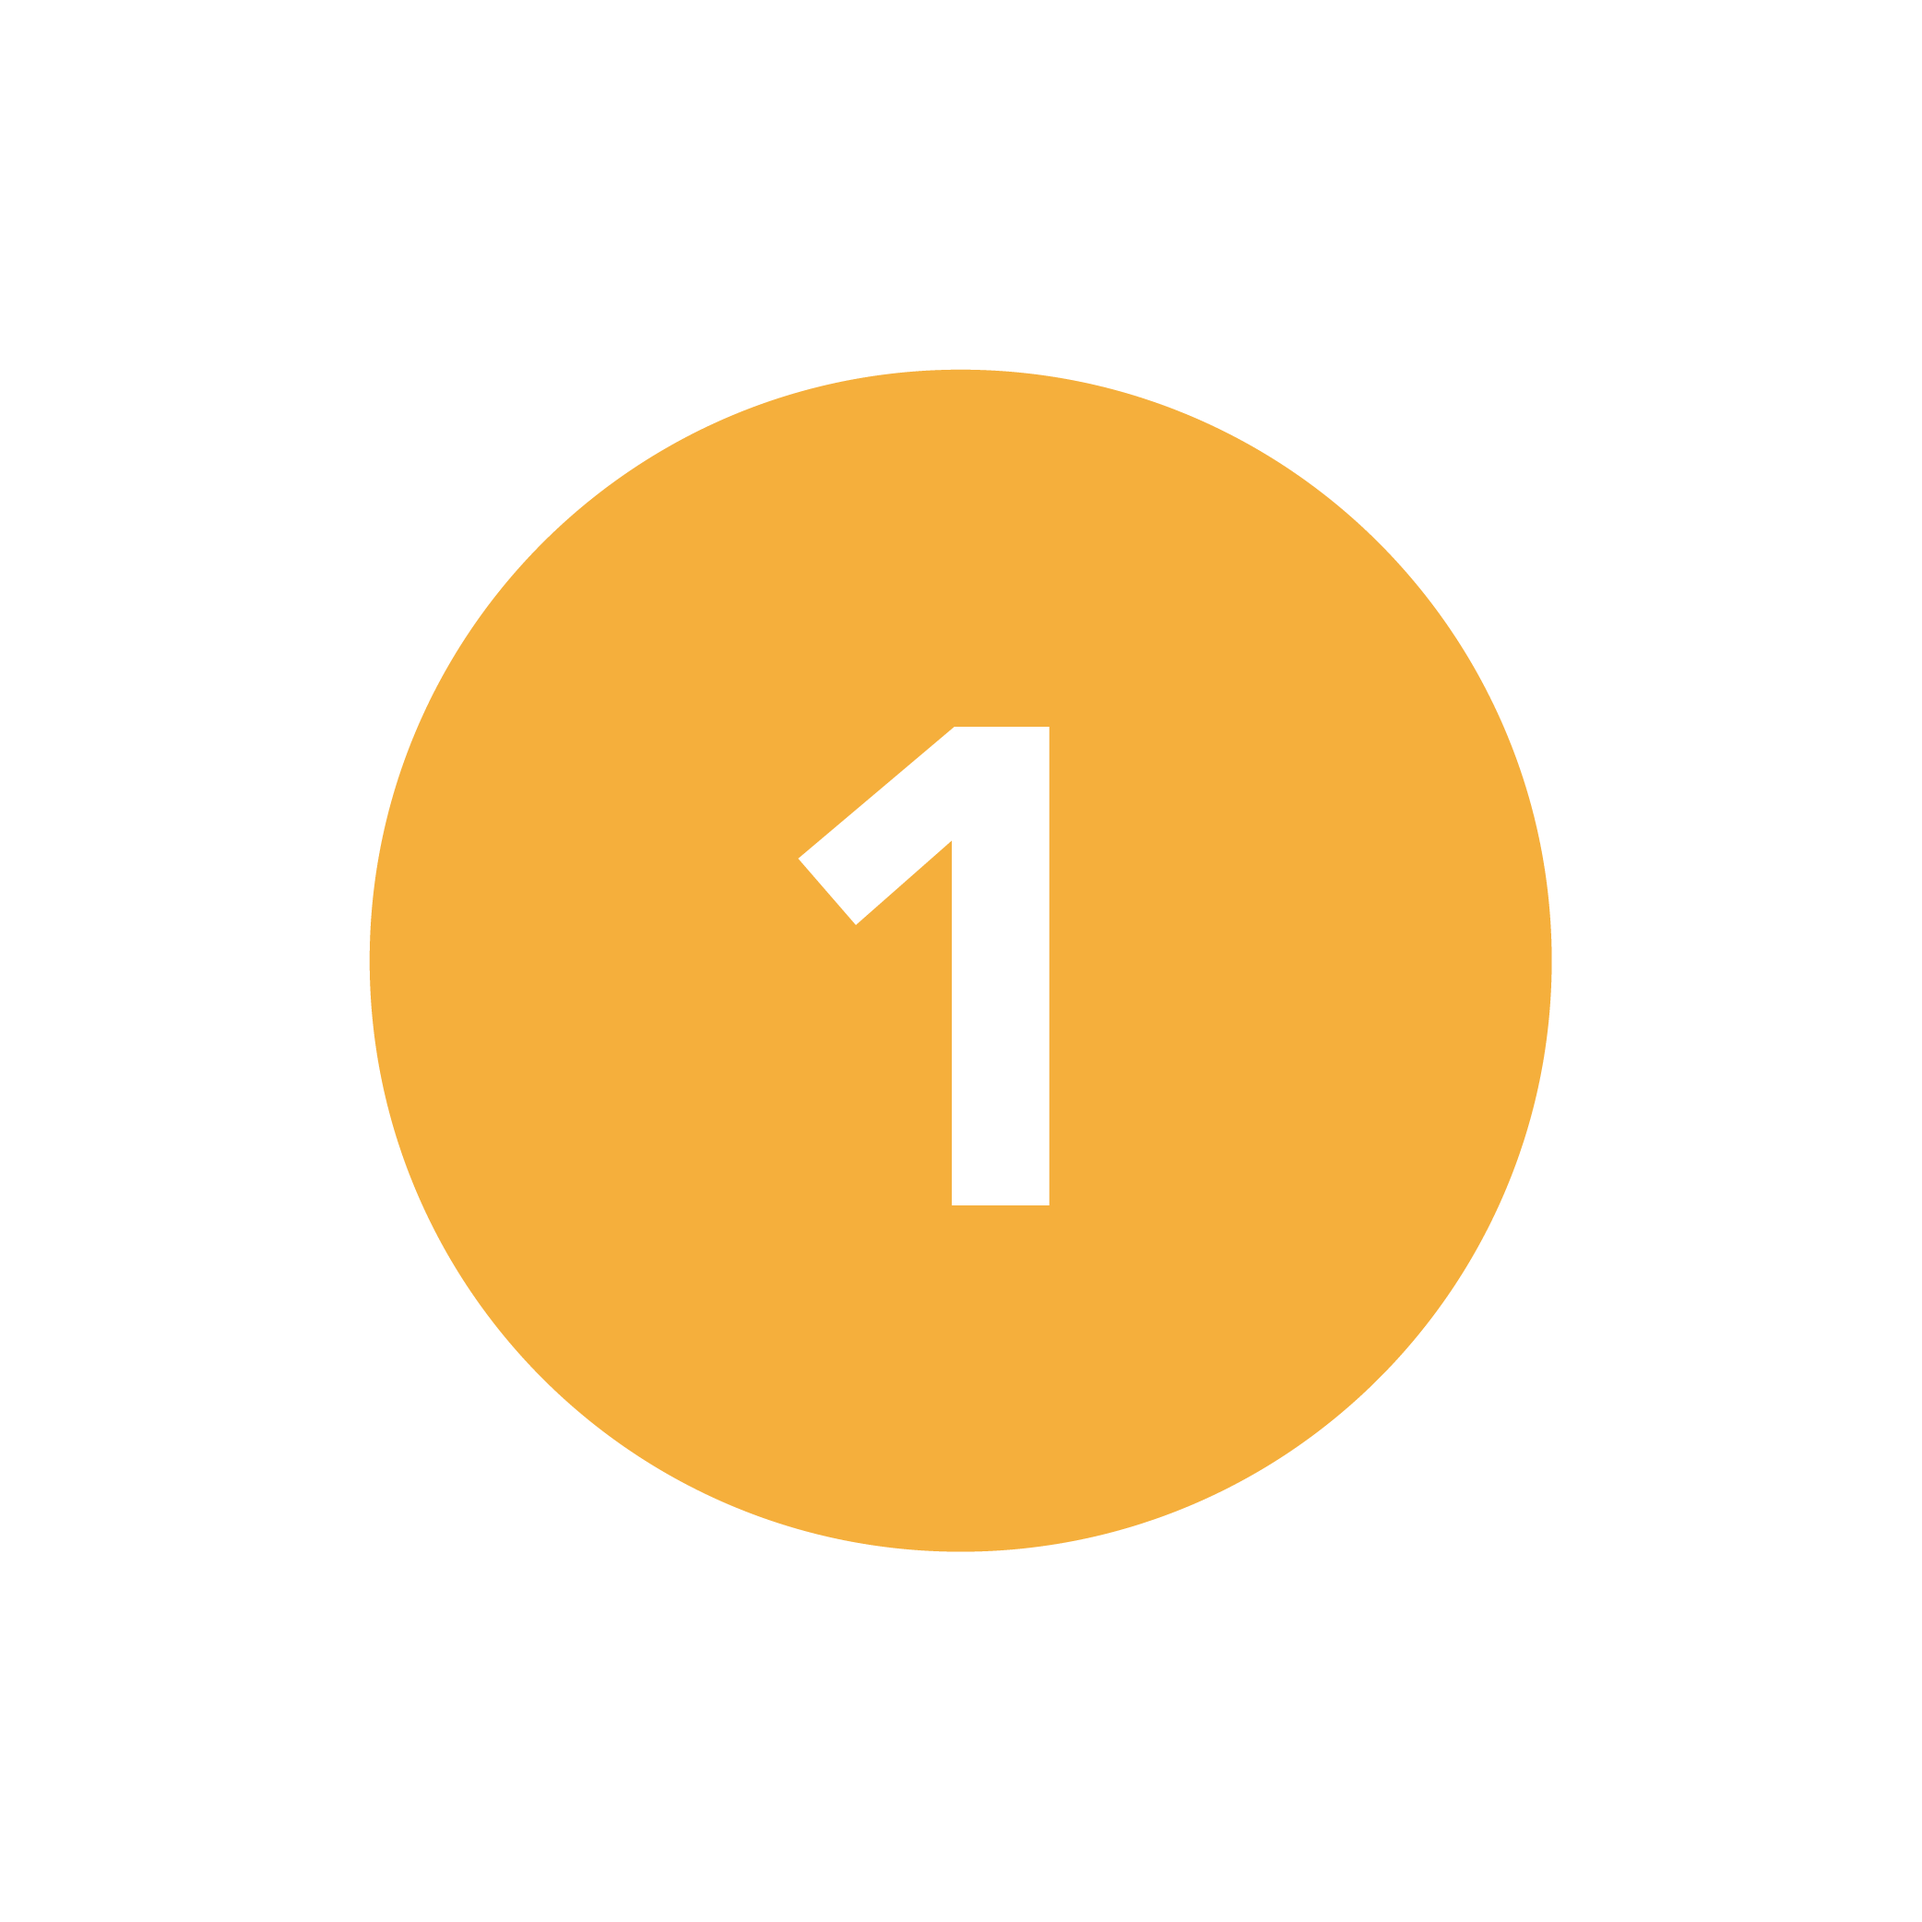
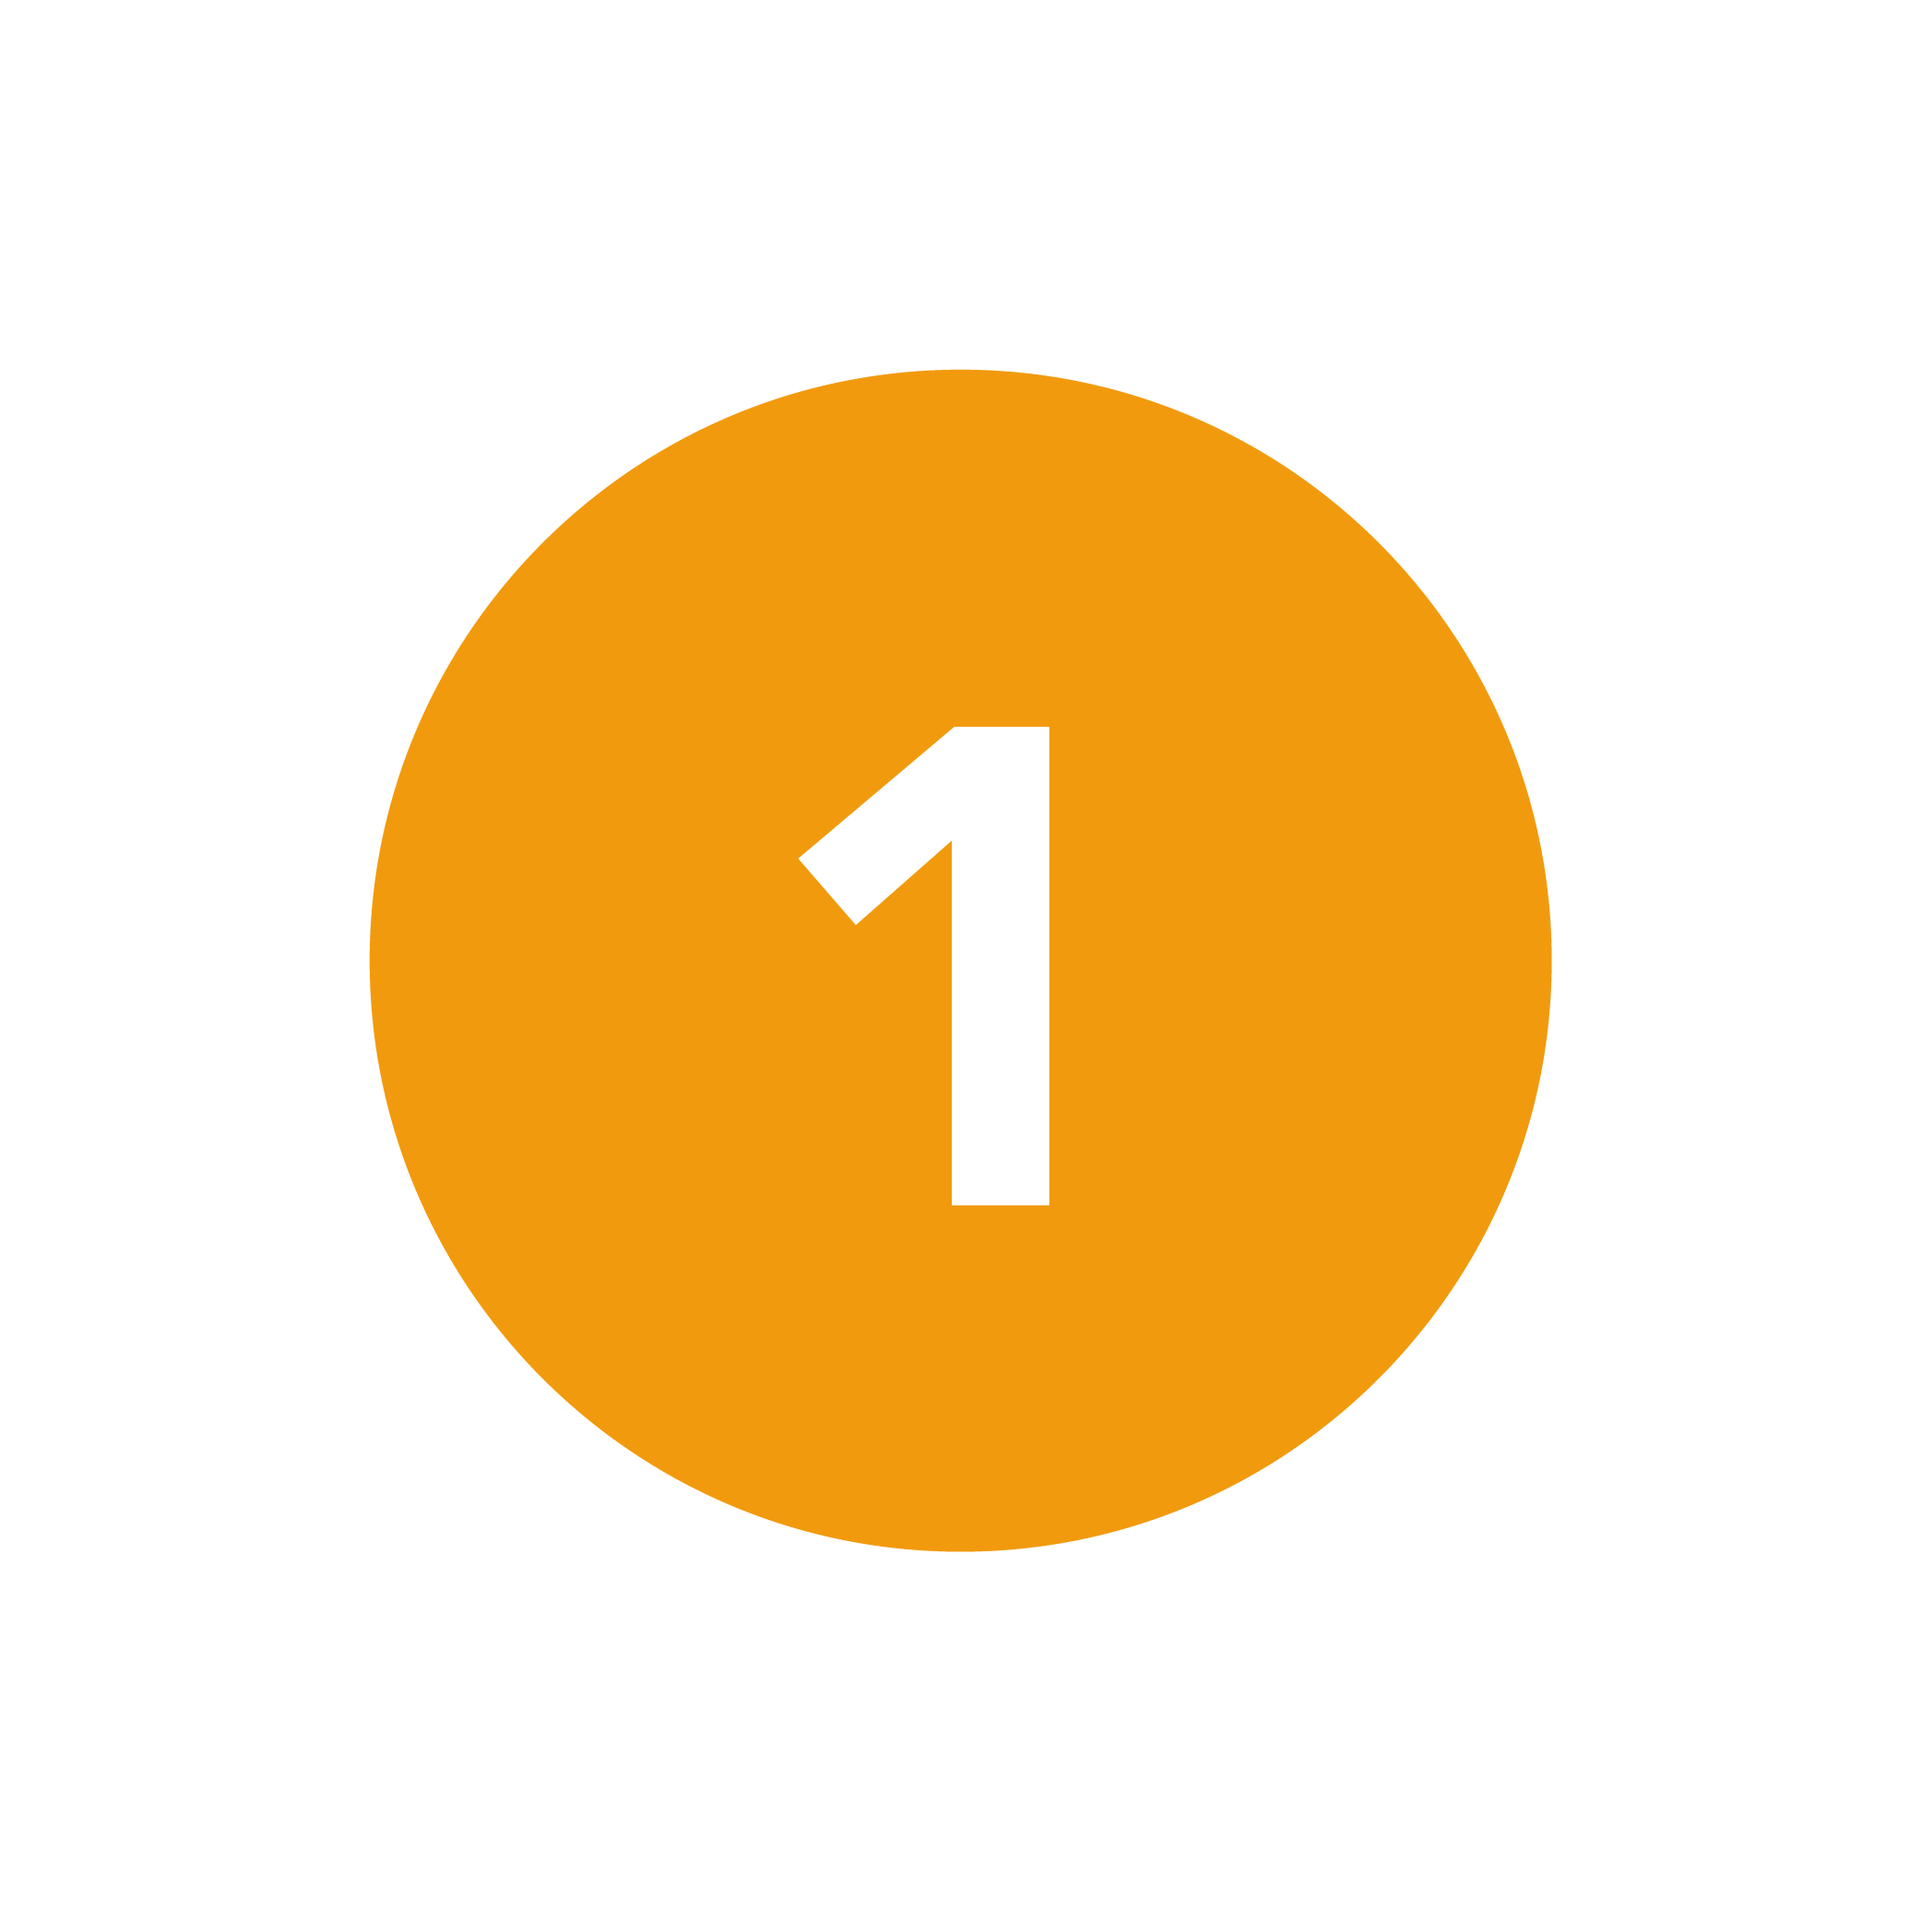
1026

Changed region(s): [[0.1871, 0.1871, 0.8109, 0.8109]]

diff --git a/css/style.css b/css/style.css
@@ -848,11 +848,11 @@ filter: progid:DXImageTransform.Microsoft.gradient( startColorstr='#ffffff', end
 
 
 .shard_color{
-	color: #F5AF3C;
+	color: #F29A0D;
 }
 
 #shard_page .fa-caret-right{
-	color: #F5AF3C;
+	color: #F29A0D;
 }
 
 
